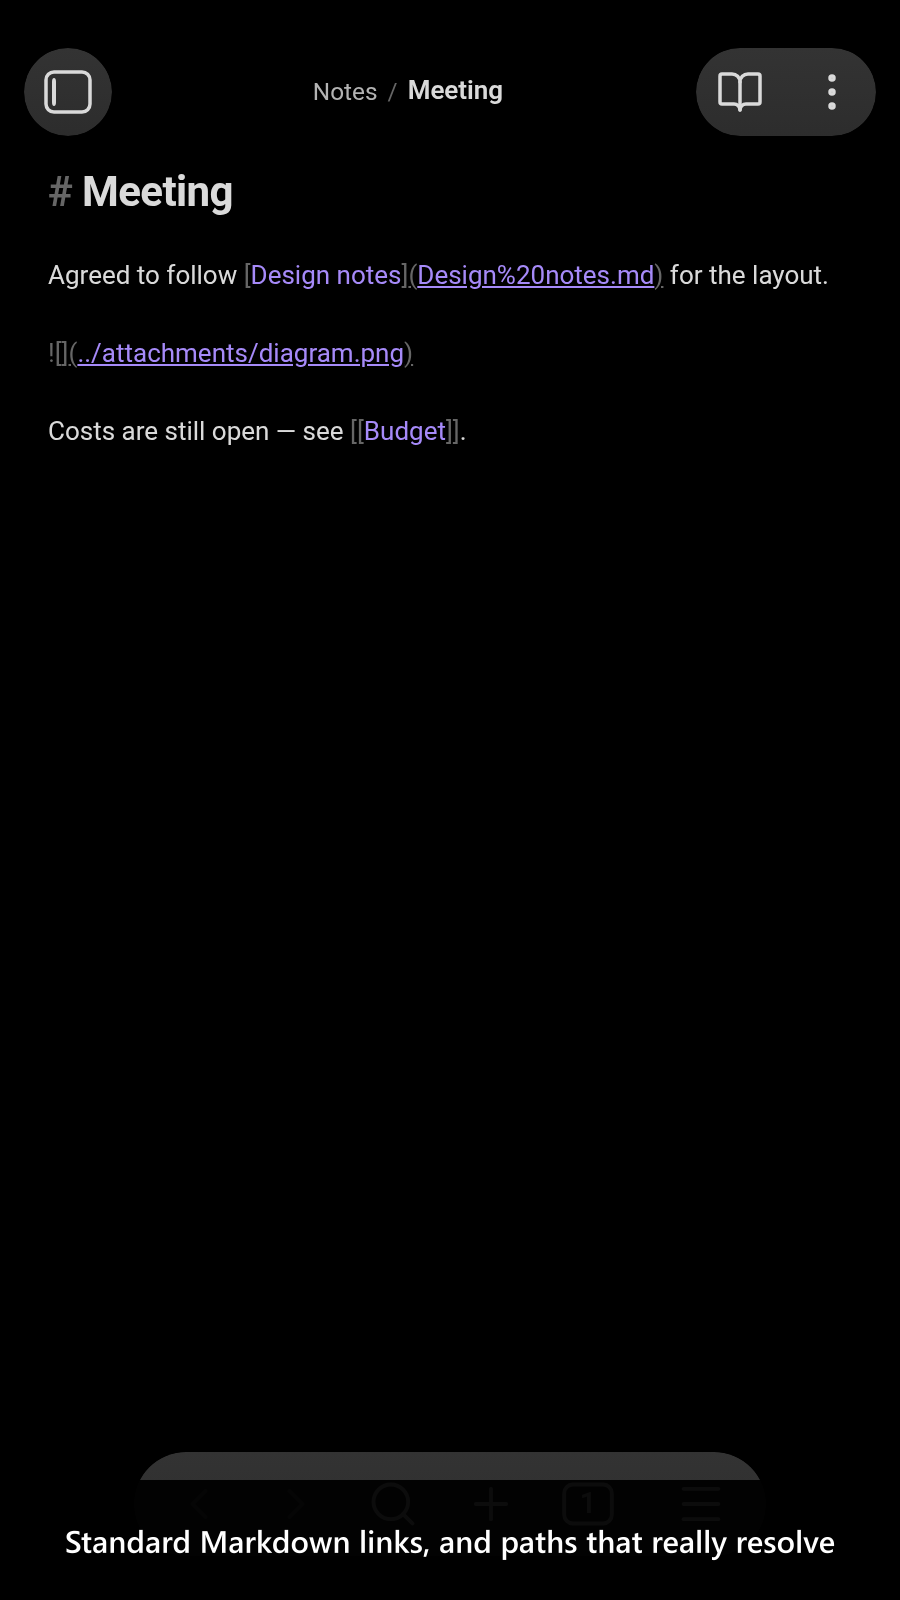
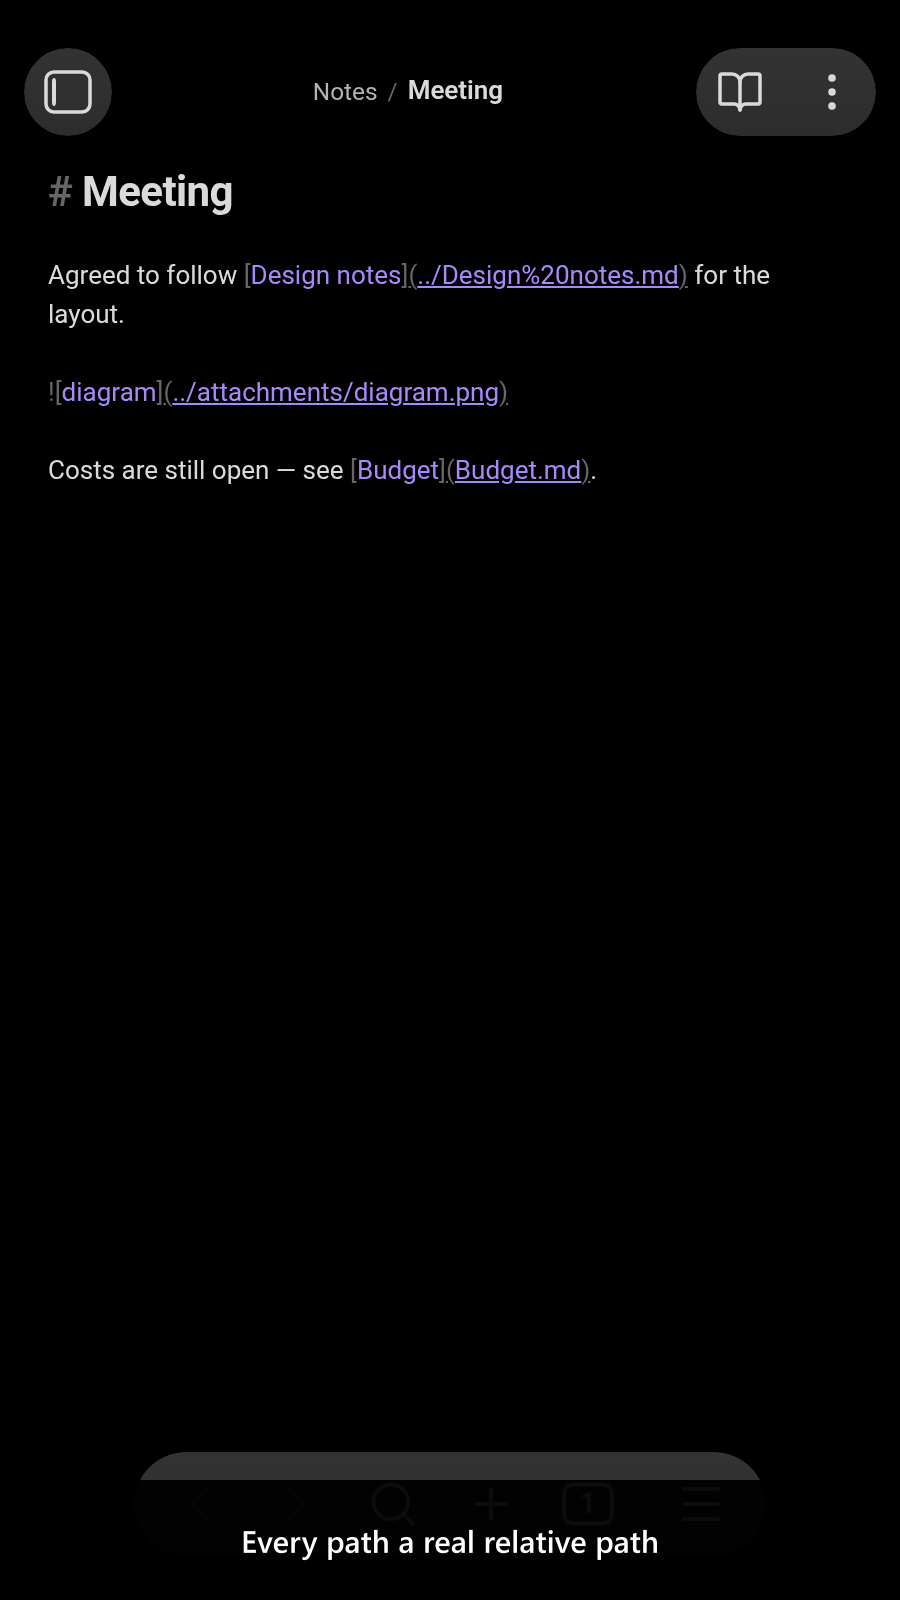
fix(screenshots): re-capture the mobile frames, and stop Obsidian's rename prompt blocking them
The mobile leg's shots 1 and 2 still showed the wikilink story the desktop ones had
already left behind, so the README's alt text described frames that no longer matched.

Shots 3 and 4 could not be captured at all. Shot 3 moves an attachment a note still
embeds, and Obsidian asks "Update links?" first — a dialog, so it covered the frame
and blocked everything after it. The CDP transport writes `alwaysUpdateLinks` into
`app.json` itself; the Appium transport does not, so the mobile leg has to set it.

Changed region(s): [[0.0622, 0.1875, 0.6533, 0.3125], [0.0622, 0.9375, 0.9333, 0.9688], [0.4667, 0.1562, 0.9022, 0.1875]]

diff --git a/src/screenshots.android-capture.integration.test.ts b/src/screenshots.android-capture.integration.test.ts
@@ -183,6 +183,13 @@ beforeAll(async () => {
       // To use, so the destination in shot 3 is this setting's doing.
       app.vault.setConfig('attachmentFolderPath', './assets');
 
+      // Shot 3 moves an attachment a note still embeds, and Obsidian asks "Update
+      // Links?" before it will. The prompt is a dialog, so it covers the frame AND
+      // Blocks everything after it. The CDP transport writes this into `app.json`
+      // Itself ("Enabled alwaysUpdateLinks — headless rename support"); the Appium
+      // Transport does not, so the mobile leg has to set it here.
+      app.vault.setConfig('alwaysUpdateLinks', true);
+
       // The two settings the plugin's own "Recommended Obsidian settings" note
       // Asks for. They decide what the plugin WRITES when it rewrites a link:
       // Left at Obsidian's defaults, collecting an attachment produces a bare
